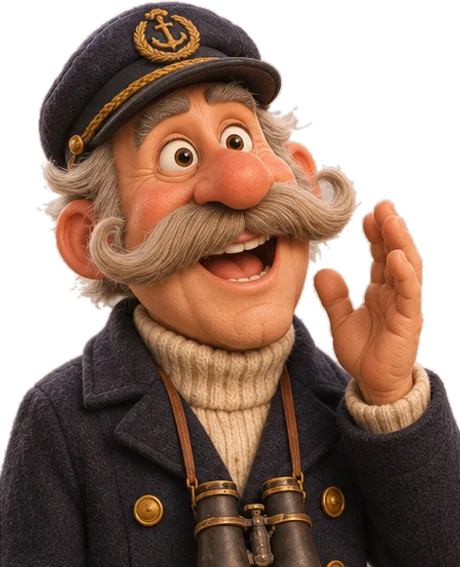
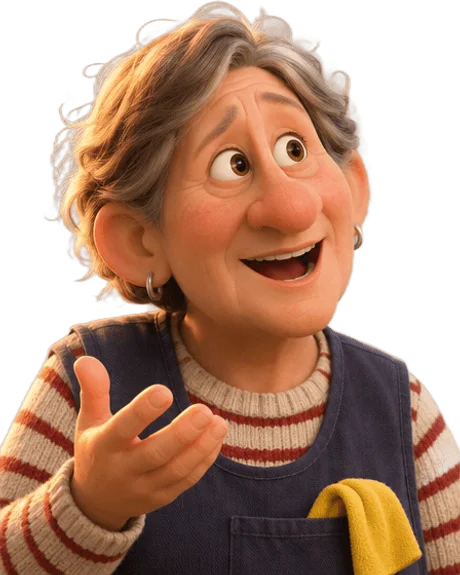
Games: 21 re-cut 3D portraits (Harbour Files Julian, Marcus, Hale, Meg, Ines, Mrs Dunn; Open House Grandma Ivy)
Julian and Marcus had holes in their faces; Hale, Meg, Ines and Grandma Ivy had a light fringe
round the hair; Mrs Dunn (C1 The Missing Logbook) had been drawn as a man in a captain's cap and
is now the woman cleaner. Same file names, manifest entries ?v=hf1 -> ?v=hf3, SW bumped so phones
refetch. Mrs Dunn already speaks in a woman's voice (G2_SEX mystery.dunn = f; voice-gender-check passes).

diff --git a/app/farin-sw.js b/app/farin-sw.js
@@ -1,4 +1,4 @@
-const CACHE = 'farin-spanish-v56';   // v56 2026-11-27: Harbour Files A1 opening hall (a1-plate-n12-hall-wide-hf.webp, the title card and hub); v55 2026-11-26: Passport Desk like the English one: three travellers a round (one clean, the boss last, the double at 2 or 3) and the travellers a bit faster by level (DESK_PACE); v54 2026-11-26: Red Suitcase 3.1 fixed (c3_1-hf2.webp: Cudillero out of the window); v53 2026-11-26: Build It + Magic Words in their 9:16 3D rooms (the 3D lighthouse, doors, medallion, plaque, garden; THEATRE_VER 32); v52 2026-11-26: Open House in 3D (rooms + cut-outs repainted under the same names, manifest ?v=hf2, layers re-boxed); v51 2026-11-26: The Red Suitcase's own names (Sergio, Elena, Cobb, Mario) with their voices, Cudillero Then & Now pairs + the 2.6 calendar, Harbour Files redrawn in 3D; v50 v50 2026-11-26: the quick games play in farin-e9's 9:16 3D rooms (Order Up!, Passport Desk, Listen & Type, Say It Back, Pier Dash, Word Bingo, Mini Cross, Story Hunt, Word Rush) with the 3D cut-outs under the same names; v49 2026-11-26: the game art fills the whole page: every intro poster is full-screen 9:16 key art (games/posters/<kind>-full.webp, the Red Suitcase unlettered cover), the quick-game worlds edge to edge (Theatre 1.4); v48 2026-11-26: the Higgsfield game art (Open House + Harbour Files 3D portraits, the café plates, Passport Desk in the 3D booth, The Red Suitcase A1 painterly panels ch1-6 + ch2 as comic pages + covers); v47 2026-11-26: FE from the new art on the membership box (Farin's 11-21 autumn picture, winter from 1 Jan) and Profile (king, wizard, suitcase, binoculars); the old-sheet pictures removed; v46 v46 2026-11-26: the last 3D posters + cards, Order Up! shelf pictures without slivers; v45 2026-11-26: Home without the profile and Premium courses boxes, the membership box in brand purple with FE in his season clothes, the settings button opens Profile (FE in a Special / Travel outfit, Settings in its head), Courses in the bottom bar; v44 v44 2026-11-26: Captain in 3D (pt-captain-*.webp, same names); v43 2026-11-26: premium courses only through Plus and Guided (no single-course request or price); vv42 2026-11-26: the games' microphones (Say It Back, Open House free line: tap to stop, no lost taps, says why); v41 2026-11-26: the practice score weighs the whole answer (length, sentences, variety, topic), not just its length; v40 2026-11-26: Messages shows only the chats (no News from Farin list); v39 2026-11-26: card posters with ?v=, image cache fills revalidate (no stale copies), Open House / Harbour Files names; v38 2026-11-26: the new 3D roadmap cards (art/posters/card-*.webp, same names) + 3D posters; v37 2026-11-26: speaking-club dates refresh themselves while a screen stays open, old bookings pruned; vv36 2026-11-26: Guided includes the Thursday speaking clubs free (package line + My Groups card), adminMbPlanFor, Plus box without the per-course link; v35 2026-11-25: Spanish speaking clubs (My Groups, Speaking Club! roadmap cards, admin Speaking clubs + put a learner in, free for Guided), Group classes section removed; vv34 2026-11-25: Order Up! 3D café art, full-body customers (same file names for the shelf items: a new cache); v33 2026-11-25: the speaking microphone starts and stops reliably (Round 3 of a speaking card, the Say it chips, course + IELTS recorders); v32 2026-11-25: Order Up! customer chats + the cozy café look (games/worlds/order/world.css, skins.js order, chat voice clips); v31 2026-11-25: memberships Free / Plus / Guided (header entry, membership page, manual payments + admin Payments / Members, 48-hour intro offer, page report in Plus); v30 2026-11-25: Premium courses list as picture cards (DELE photo, Plus pill); v29 2026-11-25: FEschool intro before the questions, the roadmap build after Go!; v28 2026-11-23: shorter group-class offer with the discount, In app class offers (Messages card, mailbox); v27 2026-11-23: admin Your week, drag a class to another time; v26 2026-11-23: group classes: one time each (new order), 8 seats then a new class, silent refit, codes EA/SA, no mid-private; v25 2026-11-23: group classes of 6–8, class price offer (toman + lira), new course prices; v24 2026-11-21: roadmap v4, the box holds the current card down to the end (page scrolls), finished cards above it out of view; v23 2026-11-21: app icon = white FE face on purple; v21 2026-11-21: the roadmap box scrolls on its own, current card at its top, no earlier-cards bar; v20 2026-11-21: sharp 900 px FE p-cheer, welcome card 300 px; v19 2026-11-21: Home opens at the top, current card first under the earlier-cards bar; v18 2026-11-21: welcome card = FE cheering, 200 px; v17 2026-11-21: admin class rows keep the name column (actions shrink + wrap); v16 2026-11-21: welcome card = FE medal + confetti; v15 2026-11-21: Messages v2 (clean list, brand status pills, admin reply context + edit/delete);   // v14 2026-11-21: roadmap cards (purple/white/orange, no symbols, solid circles, page report card, Home opens on the current card, plan bubble off); v13 2026-11-21: admin Group classes, gold frame + Offer sent tick; v12 2026-11-21: onboarding redesign + welcome screen; v10 2026-11-20: FE white (art/fe, notif/*, icon-*.png repainted under the same names), only the clean pose set
+const CACHE = 'farin-spanish-v57';   // v57 2026-11-27: 21 portraits re-cut (Harbour Files Julian, Marcus, Hale, Meg, Ines, Mrs Dunn as a woman; Open House Grandma Ivy; ?v=hf3); v56 2026-11-27: Harbour Files A1 opening hall (a1-plate-n12-hall-wide-hf.webp, the title card and hub); v55 2026-11-26: Passport Desk like the English one: three travellers a round (one clean, the boss last, the double at 2 or 3) and the travellers a bit faster by level (DESK_PACE); v54 2026-11-26: Red Suitcase 3.1 fixed (c3_1-hf2.webp: Cudillero out of the window); v53 2026-11-26: Build It + Magic Words in their 9:16 3D rooms (the 3D lighthouse, doors, medallion, plaque, garden; THEATRE_VER 32); v52 2026-11-26: Open House in 3D (rooms + cut-outs repainted under the same names, manifest ?v=hf2, layers re-boxed); v51 2026-11-26: The Red Suitcase's own names (Sergio, Elena, Cobb, Mario) with their voices, Cudillero Then & Now pairs + the 2.6 calendar, Harbour Files redrawn in 3D; v50 v50 2026-11-26: the quick games play in farin-e9's 9:16 3D rooms (Order Up!, Passport Desk, Listen & Type, Say It Back, Pier Dash, Word Bingo, Mini Cross, Story Hunt, Word Rush) with the 3D cut-outs under the same names; v49 2026-11-26: the game art fills the whole page: every intro poster is full-screen 9:16 key art (games/posters/<kind>-full.webp, the Red Suitcase unlettered cover), the quick-game worlds edge to edge (Theatre 1.4); v48 2026-11-26: the Higgsfield game art (Open House + Harbour Files 3D portraits, the café plates, Passport Desk in the 3D booth, The Red Suitcase A1 painterly panels ch1-6 + ch2 as comic pages + covers); v47 2026-11-26: FE from the new art on the membership box (Farin's 11-21 autumn picture, winter from 1 Jan) and Profile (king, wizard, suitcase, binoculars); the old-sheet pictures removed; v46 v46 2026-11-26: the last 3D posters + cards, Order Up! shelf pictures without slivers; v45 2026-11-26: Home without the profile and Premium courses boxes, the membership box in brand purple with FE in his season clothes, the settings button opens Profile (FE in a Special / Travel outfit, Settings in its head), Courses in the bottom bar; v44 v44 2026-11-26: Captain in 3D (pt-captain-*.webp, same names); v43 2026-11-26: premium courses only through Plus and Guided (no single-course request or price); vv42 2026-11-26: the games' microphones (Say It Back, Open House free line: tap to stop, no lost taps, says why); v41 2026-11-26: the practice score weighs the whole answer (length, sentences, variety, topic), not just its length; v40 2026-11-26: Messages shows only the chats (no News from Farin list); v39 2026-11-26: card posters with ?v=, image cache fills revalidate (no stale copies), Open House / Harbour Files names; v38 2026-11-26: the new 3D roadmap cards (art/posters/card-*.webp, same names) + 3D posters; v37 2026-11-26: speaking-club dates refresh themselves while a screen stays open, old bookings pruned; vv36 2026-11-26: Guided includes the Thursday speaking clubs free (package line + My Groups card), adminMbPlanFor, Plus box without the per-course link; v35 2026-11-25: Spanish speaking clubs (My Groups, Speaking Club! roadmap cards, admin Speaking clubs + put a learner in, free for Guided), Group classes section removed; vv34 2026-11-25: Order Up! 3D café art, full-body customers (same file names for the shelf items: a new cache); v33 2026-11-25: the speaking microphone starts and stops reliably (Round 3 of a speaking card, the Say it chips, course + IELTS recorders); v32 2026-11-25: Order Up! customer chats + the cozy café look (games/worlds/order/world.css, skins.js order, chat voice clips); v31 2026-11-25: memberships Free / Plus / Guided (header entry, membership page, manual payments + admin Payments / Members, 48-hour intro offer, page report in Plus); v30 2026-11-25: Premium courses list as picture cards (DELE photo, Plus pill); v29 2026-11-25: FEschool intro before the questions, the roadmap build after Go!; v28 2026-11-23: shorter group-class offer with the discount, In app class offers (Messages card, mailbox); v27 2026-11-23: admin Your week, drag a class to another time; v26 2026-11-23: group classes: one time each (new order), 8 seats then a new class, silent refit, codes EA/SA, no mid-private; v25 2026-11-23: group classes of 6–8, class price offer (toman + lira), new course prices; v24 2026-11-21: roadmap v4, the box holds the current card down to the end (page scrolls), finished cards above it out of view; v23 2026-11-21: app icon = white FE face on purple; v21 2026-11-21: the roadmap box scrolls on its own, current card at its top, no earlier-cards bar; v20 2026-11-21: sharp 900 px FE p-cheer, welcome card 300 px; v19 2026-11-21: Home opens at the top, current card first under the earlier-cards bar; v18 2026-11-21: welcome card = FE cheering, 200 px; v17 2026-11-21: admin class rows keep the name column (actions shrink + wrap); v16 2026-11-21: welcome card = FE medal + confetti; v15 2026-11-21: Messages v2 (clean list, brand status pills, admin reply context + edit/delete);   // v14 2026-11-21: roadmap cards (purple/white/orange, no symbols, solid circles, page report card, Home opens on the current card, plan bubble off); v13 2026-11-21: admin Group classes, gold frame + Offer sent tick; v12 2026-11-21: onboarding redesign + welcome screen; v10 2026-11-20: FE white (art/fe, notif/*, icon-*.png repainted under the same names), only the clean pose set
 const CACHE_PREFIX = CACHE.replace(/\d+$/, '');   // 'farin-english-v' / 'farin-spanish-v'
 const PAGE_URL = self.registration.scope;
 /* Cozy Chores painted art (Trello 1m2Y0zdU, 8JAiLuV7): the game's plates and cut-outs are sibling files
